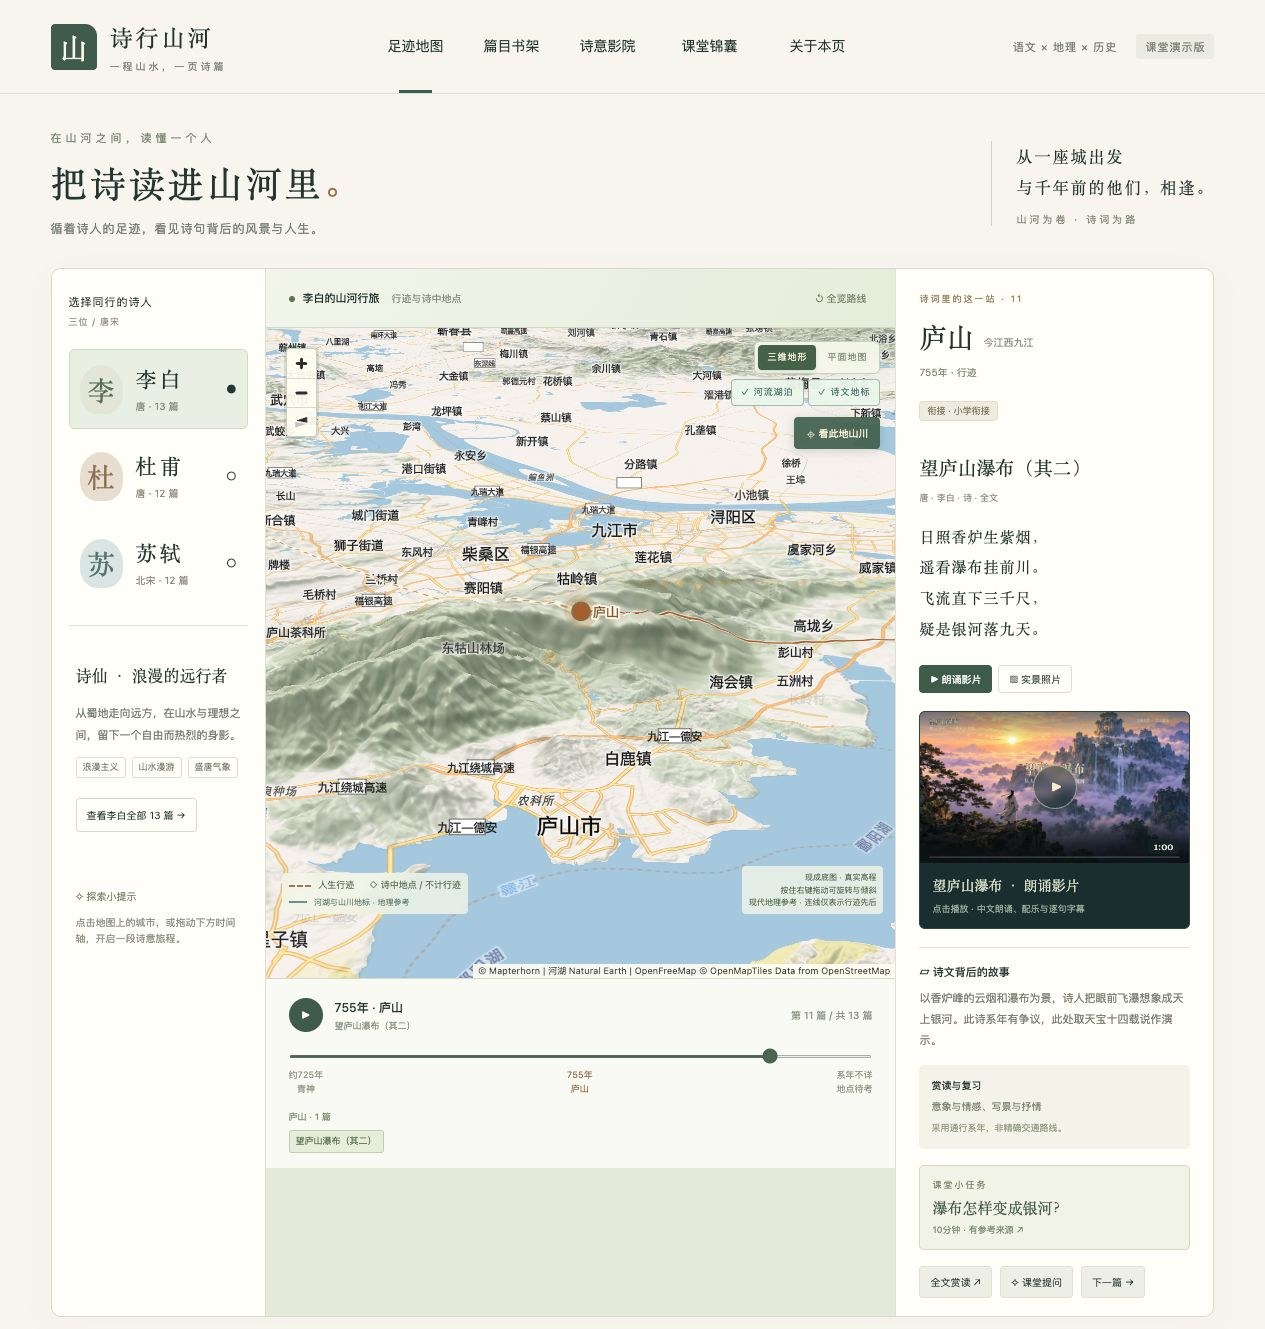
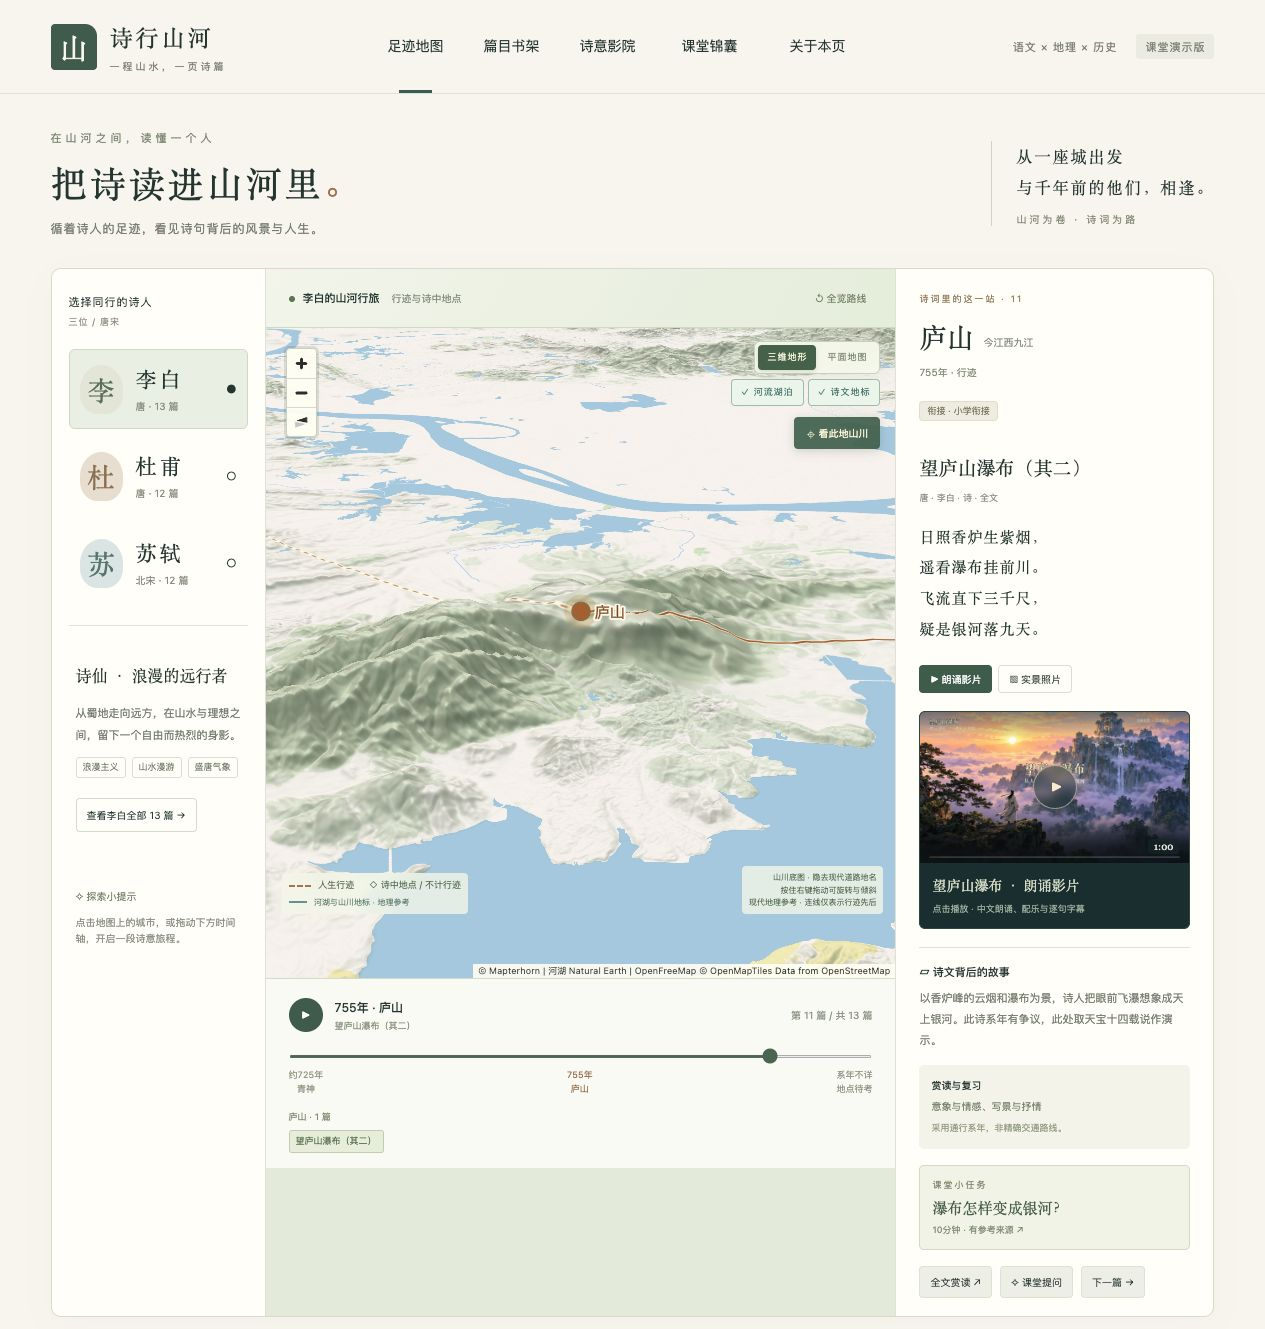
Simplify terrain map to emphasize poet routes and literary landmarks

diff --git a/dist/index.html b/dist/index.html
@@ -1,1 +1,1 @@
-<!doctype html><html lang="zh-CN"><meta charset="utf-8"><meta name="viewport" content="width=device-width,initial-scale=1"><title>诗行山河 · 跟着诗词去远方</title><link rel="stylesheet" href="vendor/maplibre/maplibre-gl.css"><link rel="stylesheet" href="style.css"><body><header><a class="brand" href="."><b>山</b><span>诗行山河<small>一程山水，一页诗篇</small></span></a><nav id="siteNav" aria-label="主导航"></nav><span class="edition">语文 × 地理 × 历史 <i>课堂演示版</i></span></header><main><section class="intro"><div><p class="eyebrow">在山河之间，读懂一个人</p><h1>把诗读进山河里<span>。</span></h1><p>循着诗人的足迹，看见诗句背后的风景与人生。</p></div><div class="intro-note">从一座城出发<br>与千年前的他们，相逢。<span>山河为卷 · 诗词为路</span></div></section><section class="workspace"><aside class="people"><div class="section-label">选择同行的诗人 <span>三位 / 唐宋</span></div><div id="people"></div><div class="bio" id="bio"></div><div class="tip"><span>✧ 探索小提示</span><p>点击地图上的城市，或拖动下方时间轴，开启一段诗意旅程。</p></div></aside><section class="map-panel"><div class="map-head"><div><span class="live-dot"></span><strong id="mapTitle"></strong><small>行迹与诗中地点</small></div><button id="reset">↺ 全览路线</button></div><div class="map-wrap"><div class="map-view-switch" role="group" aria-label="地图显示方式"><button data-map-style="relief" aria-pressed="true">三维地形</button><button data-map-style="flat" aria-pressed="false">平面地图</button></div><div class="map-layer-switch" role="group" aria-label="地理参考图层"><button id="waterToggle" aria-pressed="true">河流湖泊</button><button id="landmarkToggle" aria-pressed="true">诗文地标</button></div><span id="mapLayerStatus" class="sr-only" role="status">正在加载河湖参考图层</span><div id="map" role="region" aria-label="诗人人生足迹三维地图"></div><div id="terrainStatus" class="terrain-status" role="status">正在连接第三方地图…</div><button id="terrainFocus" class="terrain-focus">⌖ 看此地山川</button><div class="map-quote" id="mapQuote"></div><div class="map-legend"><i></i> 人生行迹 <span>◇ 诗中地点 / 不计行迹</span><small class="geo-legend"><b></b> 河湖与山川地标 · 地理参考</small></div><div class="map-note">现成底图 · 真实高程<br>按住右键拖动可旋转与倾斜<br>现代地理参考 · 连线仅表示行迹先后</div></div><div class="timeline"><div class="playrow"><button id="play" aria-label="播放足迹">▶</button><div><strong id="timeTitle"></strong><small id="timeSubtitle"></small></div><span id="progress"></span></div><input id="range" type="range" min="0" max="3" value="0" aria-label="人生足迹时间轴"><div id="ticks"></div><div id="stationWorks"></div></div></section><aside class="detail" id="detail"></aside></section><section class="bottom"><span>读诗，也读诗人的一生。</span><p>让地点成为线索，让故事连接诗句。</p><button id="questionBtn">✧ 开启课堂讨论 →</button></section></main><footer>诗行山河 <span>为每一堂有画面感的语文课而作</span><button id="sources">资料与说明 ↗</button></footer><dialog id="modal"><button id="close" aria-label="关闭">×</button><div id="modalBody"></div></dialog><script src="teaching.js"></script><script src="photos.js"></script><script src="curriculum.js"></script><script src="cinema.js"></script><script src="poetry-data.js"></script><script src="library.js"></script><script src="geography.js"></script><script src="vendor/maplibre/maplibre-gl.js"></script><script src="map.js"></script><script src="app.js"></script><script src="site-nav.js"></script></body></html>
+<!doctype html><html lang="zh-CN"><meta charset="utf-8"><meta name="viewport" content="width=device-width,initial-scale=1"><title>诗行山河 · 跟着诗词去远方</title><link rel="stylesheet" href="vendor/maplibre/maplibre-gl.css"><link rel="stylesheet" href="style.css"><body><header><a class="brand" href="."><b>山</b><span>诗行山河<small>一程山水，一页诗篇</small></span></a><nav id="siteNav" aria-label="主导航"></nav><span class="edition">语文 × 地理 × 历史 <i>课堂演示版</i></span></header><main><section class="intro"><div><p class="eyebrow">在山河之间，读懂一个人</p><h1>把诗读进山河里<span>。</span></h1><p>循着诗人的足迹，看见诗句背后的风景与人生。</p></div><div class="intro-note">从一座城出发<br>与千年前的他们，相逢。<span>山河为卷 · 诗词为路</span></div></section><section class="workspace"><aside class="people"><div class="section-label">选择同行的诗人 <span>三位 / 唐宋</span></div><div id="people"></div><div class="bio" id="bio"></div><div class="tip"><span>✧ 探索小提示</span><p>点击地图上的城市，或拖动下方时间轴，开启一段诗意旅程。</p></div></aside><section class="map-panel"><div class="map-head"><div><span class="live-dot"></span><strong id="mapTitle"></strong><small>行迹与诗中地点</small></div><button id="reset">↺ 全览路线</button></div><div class="map-wrap"><div class="map-view-switch" role="group" aria-label="地图显示方式"><button data-map-style="relief" aria-pressed="true">三维地形</button><button data-map-style="flat" aria-pressed="false">平面地图</button></div><div class="map-layer-switch" role="group" aria-label="地理参考图层"><button id="waterToggle" aria-pressed="true">河流湖泊</button><button id="landmarkToggle" aria-pressed="true">诗文地标</button></div><span id="mapLayerStatus" class="sr-only" role="status">正在加载河湖参考图层</span><div id="map" role="region" aria-label="诗人人生足迹三维地图"></div><div id="terrainStatus" class="terrain-status" role="status">正在连接第三方地图…</div><button id="terrainFocus" class="terrain-focus">⌖ 看此地山川</button><div class="map-quote" id="mapQuote"></div><div class="map-legend"><i></i> 人生行迹 <span>◇ 诗中地点 / 不计行迹</span><small class="geo-legend"><b></b> 河湖与山川地标 · 地理参考</small></div><div class="map-note">山川底图 · 隐去现代道路地名<br>按住右键拖动可旋转与倾斜<br>现代地理参考 · 连线仅表示行迹先后</div></div><div class="timeline"><div class="playrow"><button id="play" aria-label="播放足迹">▶</button><div><strong id="timeTitle"></strong><small id="timeSubtitle"></small></div><span id="progress"></span></div><input id="range" type="range" min="0" max="3" value="0" aria-label="人生足迹时间轴"><div id="ticks"></div><div id="stationWorks"></div></div></section><aside class="detail" id="detail"></aside></section><section class="bottom"><span>读诗，也读诗人的一生。</span><p>让地点成为线索，让故事连接诗句。</p><button id="questionBtn">✧ 开启课堂讨论 →</button></section></main><footer>诗行山河 <span>为每一堂有画面感的语文课而作</span><button id="sources">资料与说明 ↗</button></footer><dialog id="modal"><button id="close" aria-label="关闭">×</button><div id="modalBody"></div></dialog><script src="teaching.js"></script><script src="photos.js"></script><script src="curriculum.js"></script><script src="cinema.js"></script><script src="poetry-data.js"></script><script src="library.js"></script><script src="geography.js"></script><script src="vendor/maplibre/maplibre-gl.js"></script><script src="map.js"></script><script src="app.js"></script><script src="site-nav.js"></script></body></html>

diff --git a/dist/map.js b/dist/map.js
@@ -30,9 +30,11 @@ function initMapView(){
  });
  terrainMap.on('load',()=>{
   clearTimeout(mapFaultTimer);
-  // Retain the provider's ready-made Bright style; localize its text labels only.
+  // Keep the provider's natural landscape; omit modern transport, settlements,
+  // buildings, boundaries and labels at every zoom. Teaching labels are added below.
+  const modernLayers=new Set(['transportation','transportation_name','building','aeroway','aerodrome_label','boundary','landuse','place','poi','housenumber']);
   for(const layer of terrainMap.getStyle().layers){
-   if(layer.type==='symbol'&&layer.layout?.['text-field'])terrainMap.setLayoutProperty(layer.id,'text-field',['coalesce',['get','name:zh'],['get','name:nonlatin'],['get','name'],['get','name:latin']]);
+   if(layer.type==='symbol'||modernLayers.has(layer['source-layer']))terrainMap.setLayoutProperty(layer.id,'visibility','none');
   }
   terrainMap.addSource('elevation',{type:'raster-dem',url:'https://tiles.mapterhorn.com/tilejson.json',tileSize:512,encoding:'terrarium',maxzoom:12});
   const firstSymbol=terrainMap.getStyle().layers.find(l=>l.type==='symbol')?.id;
@@ -49,7 +51,7 @@ function initMapView(){
   terrainMap.addLayer({id:'landmark-names',type:'symbol',source:'poem-landmarks',layout:{'text-field':['get','name'],'text-font':['Noto Sans Regular'],'text-size':11,'text-anchor':'top','text-offset':[0,1]},paint:{'text-color':'#5c704d','text-halo-color':'#fffef5','text-halo-width':2}});
   terrainMap.addLayer({id:'stop-halo',type:'circle',source:'poet-stops',filter:['==',['get','current'],true],paint:{'circle-radius':17,'circle-color':'#c59956','circle-opacity':.25}});
   terrainMap.addLayer({id:'stop-points',type:'circle',source:'poet-stops',paint:{'circle-radius':['case',['get','current'],8,5],'circle-color':['case',['get','imagined'],'#6d9890',['get','current'],'#ac6b38','#fff9e7'],'circle-stroke-color':'#9e7247','circle-stroke-width':2}});
-  terrainMap.addLayer({id:'stop-names',type:'symbol',source:'poet-stops',layout:{'text-field':['get','label'],'text-font':['Noto Sans Regular'],'text-size':13,'text-anchor':'left','text-offset':[.9,0],'text-allow-overlap':false,'symbol-sort-key':['case',['get','current'],0,1]},paint:{'text-color':['case',['get','current'],'#82491e','#3c5745'],'text-halo-color':'#fffcef','text-halo-width':2}});
+  terrainMap.addLayer({id:'stop-names',type:'symbol',source:'poet-stops',layout:{'text-field':['get','label'],'text-font':['Noto Sans Regular'],'text-size':['case',['get','current'],15,13],'text-anchor':'left','text-offset':[.9,0],'text-allow-overlap':false,'symbol-sort-key':['case',['get','current'],0,1]},paint:{'text-color':['case',['get','current'],'#82491e','#3c5745'],'text-halo-color':'#fffcef','text-halo-width':2}});
   const interactive=['stop-points','stop-names','landmark-points','landmark-names','water-rivers','water-lakes','water-names'];
   terrainMap.on('click',e=>{const features=terrainMap.queryRenderedFeatures([[e.point.x-5,e.point.y-5],[e.point.x+5,e.point.y+5]],{layers:interactive});const f=features.find(f=>f.source==='poet-stops')||features.find(f=>f.source==='poem-landmarks')||features[0];if(!f)return;if(f.source==='poet-stops')select(+f.properties.step);else showGeography(f.properties.topic);});
   terrainMap.on('mousemove',e=>{terrainMap.getCanvas().style.cursor=terrainMap.queryRenderedFeatures(e.point,{layers:interactive}).length?'pointer':'';});
@@ -68,7 +70,7 @@ function drawMap(){
  terrainMap.getSource('water-labels').setData(mapCollection(showWater?Object.entries(waterTopics).map(([id,t])=>mapFeature({type:'Point',coordinates:t.anchor},{topic:id,name:t.name})):[]));
  // Water line features retain their Natural Earth group IDs for teaching popups.
  if(showWater&&waterData)terrainMap.getSource('teaching-water').setData(mapCollection(waterData.features.map(f=>({...f,properties:{...f.properties,topic:f.properties.group}}))));
- terrainMap.getSource('poem-landmarks').setData(mapCollection(showLandmarks?poemLandmarks.filter(m=>!groups.has(m.region)).map(m=>mapFeature({type:'Point',coordinates:[m.lon,m.lat]},{name:m.name,topic:'landmark:'+m.id})):[]));
+ terrainMap.getSource('poem-landmarks').setData(mapCollection(showLandmarks?poemLandmarks.filter(m=>!groups.has(m.region)&&m.works.some(id=>p.stops.some(s=>s[11].id===id))).map(m=>mapFeature({type:'Point',coordinates:[m.lon,m.lat]},{name:m.name,topic:'landmark:'+m.id})):[]));
  const key=person+':'+step;
  if(key!==lastMapSelection){const changedPerson=lastMapSelection.split(':')[0]!==String(person),first=!lastMapSelection;lastMapSelection=key;if(changedPerson&&(!first||!new URLSearchParams(location.search).get('work')))overviewMap();else if(s[2]!=null)focusMapStop();else overviewMap();}
 }

diff --git a/README.en.md b/README.en.md
@@ -8,7 +8,7 @@ A Chinese-language teaching demo for junior and senior high school students and 
 
 ## Features
 
-- **Travel map:** ready-made OpenFreeMap Bright cartography and real Mapterhorn elevation rendered in MapLibre, with rotation, tilt, a flat view, route overview, and close-up terrain at each stop. Explore by poet, location, and timeline. Each stop includes the full text, background, reading prompts, and classroom questions. Documented travel, locations mentioned in poems, and uncertain locations are distinguished.
+- **Travel map:** ready-made OpenFreeMap Bright cartography and real Mapterhorn elevation rendered in MapLibre, with rotation, tilt, a flat view, route overview, and close-up terrain at each stop. Modern roads, buildings, and unrelated place labels are hidden to emphasize the poet’s route and relevant literary landmarks. Explore by poet, location, and timeline. Each stop includes the full text, background, reading prompts, and classroom questions. Documented travel, locations mentioned in poems, and uncertain locations are distinguished.
 - **Poetry library:** a dedicated page with 37 works—13 by Li Bai, 12 by Du Fu, and 12 by Su Shi. Filter by author, school stage, source category, or keyword; read full texts, hide them for memorization, and return to the corresponding map stop.
 - **Poetry cinema:** three narrated films of about one minute each. Relevant map stops show a film cover; playback starts on click. Includes synthesized Mandarin narration, original synthesized music, Chinese subtitles, scene navigation, fullscreen, and downloads.
 - **Rivers, lakes, and literary landmarks:** restyled public-domain Natural Earth geometry adds selected segments of 11 rivers, 3 lakes, and 10 landmark references. Toggle layers independently and open related works where available. Modern water geometry and regional landmark markers do not add travel stops. See the [map sources and selection notes](docs/MAP_SOURCES.md) (Chinese).

diff --git a/README.md b/README.md
@@ -8,7 +8,7 @@
 
 ## 功能
 
-- **足迹地图**：复用 OpenFreeMap Bright 现成底图与 Mapterhorn 真实高程，MapLibre 展示可旋转、倾斜的三维山川，可切换平面地图、全览路线或近看当前站点；按诗人、地点和时间探索；显示当前站点的诗文全文、背景故事与课堂提问。区分可定位行迹、诗中地点和待考地点，连线仅为精选行迹的先后示意。
+- **足迹地图**：复用 OpenFreeMap Bright 现成底图与 Mapterhorn 真实高程，MapLibre 展示可旋转、倾斜的三维山川，可切换平面地图、全览路线或近看当前站点；隐藏现代道路、建筑与无关地名，突出诗人行迹及相关诗文地标；按诗人、地点和时间探索；显示当前站点的诗文全文、背景故事与课堂提问。区分可定位行迹、诗中地点和待考地点，连线仅为精选行迹的先后示意。
 - **篇目书架**：独立页面收录37篇诗词与古文（李白13、杜甫12、苏轼12），支持作者、学段、来源分类和关键词筛选、遮文背诵，以及返回对应地图站点。
 - **诗意影院**：独立页面收录三段约一分钟的朗诵影片。对应站点显示影片封面，点击后才播放；配中文合成朗诵、原创合成配乐、逐句字幕、场景跳转、全屏及下载。
 - **河湖与诗文地标**：复用 Natural Earth 公版矢量线形，加入11条河流的选取线段、3个湖泊与10处地标。图层可独立开关，部分要素可联动作品；现代概化河道与区域地标不计入诗人行迹。详见 [地图来源与选型](docs/MAP_SOURCES.md)。
